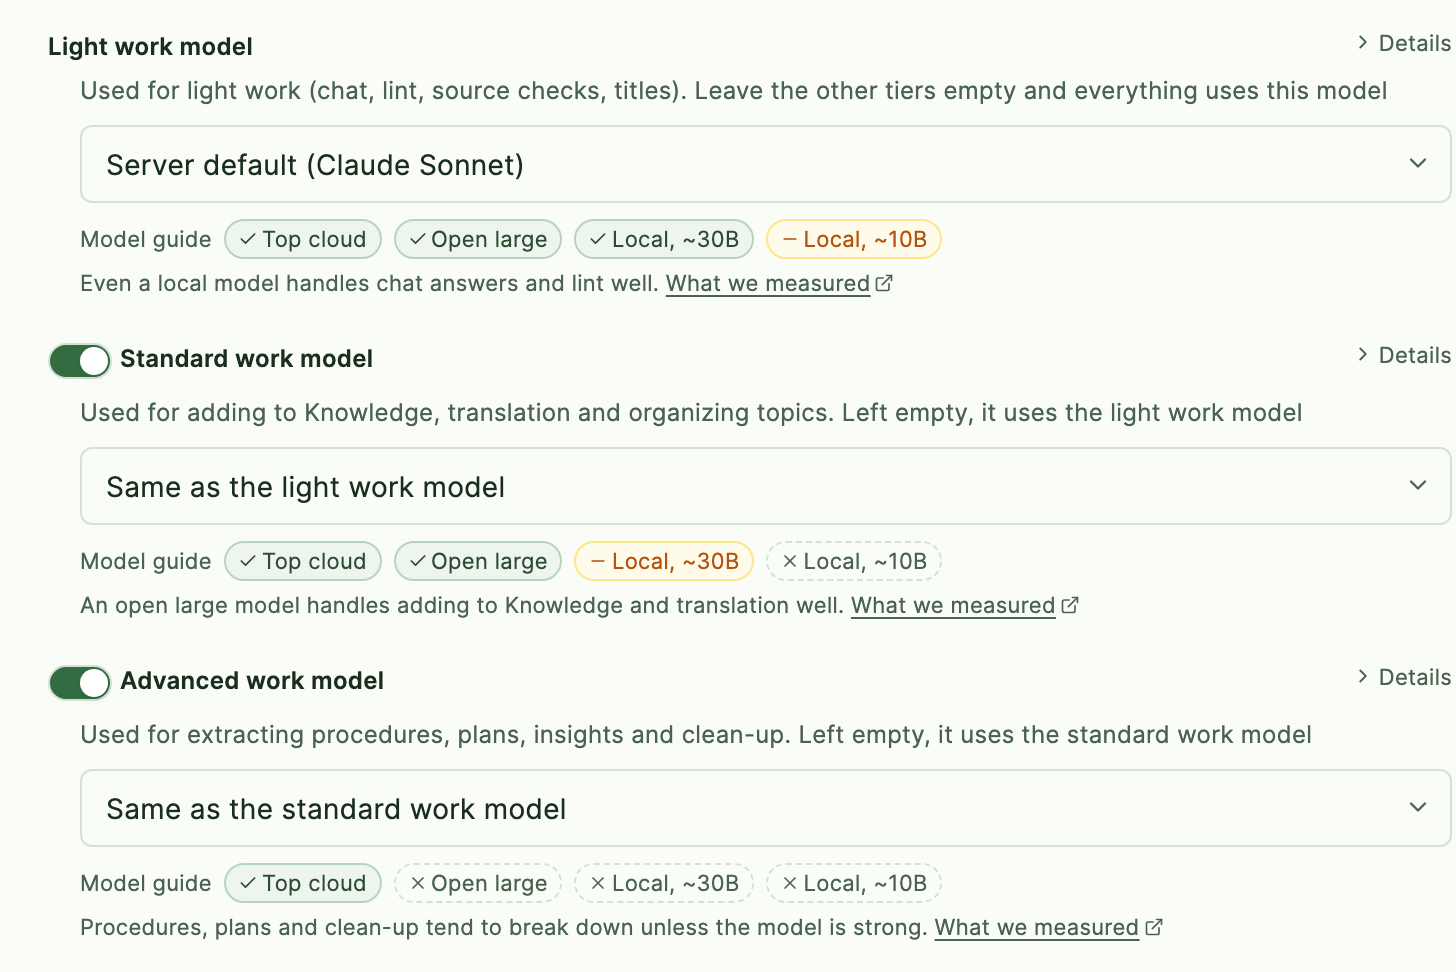
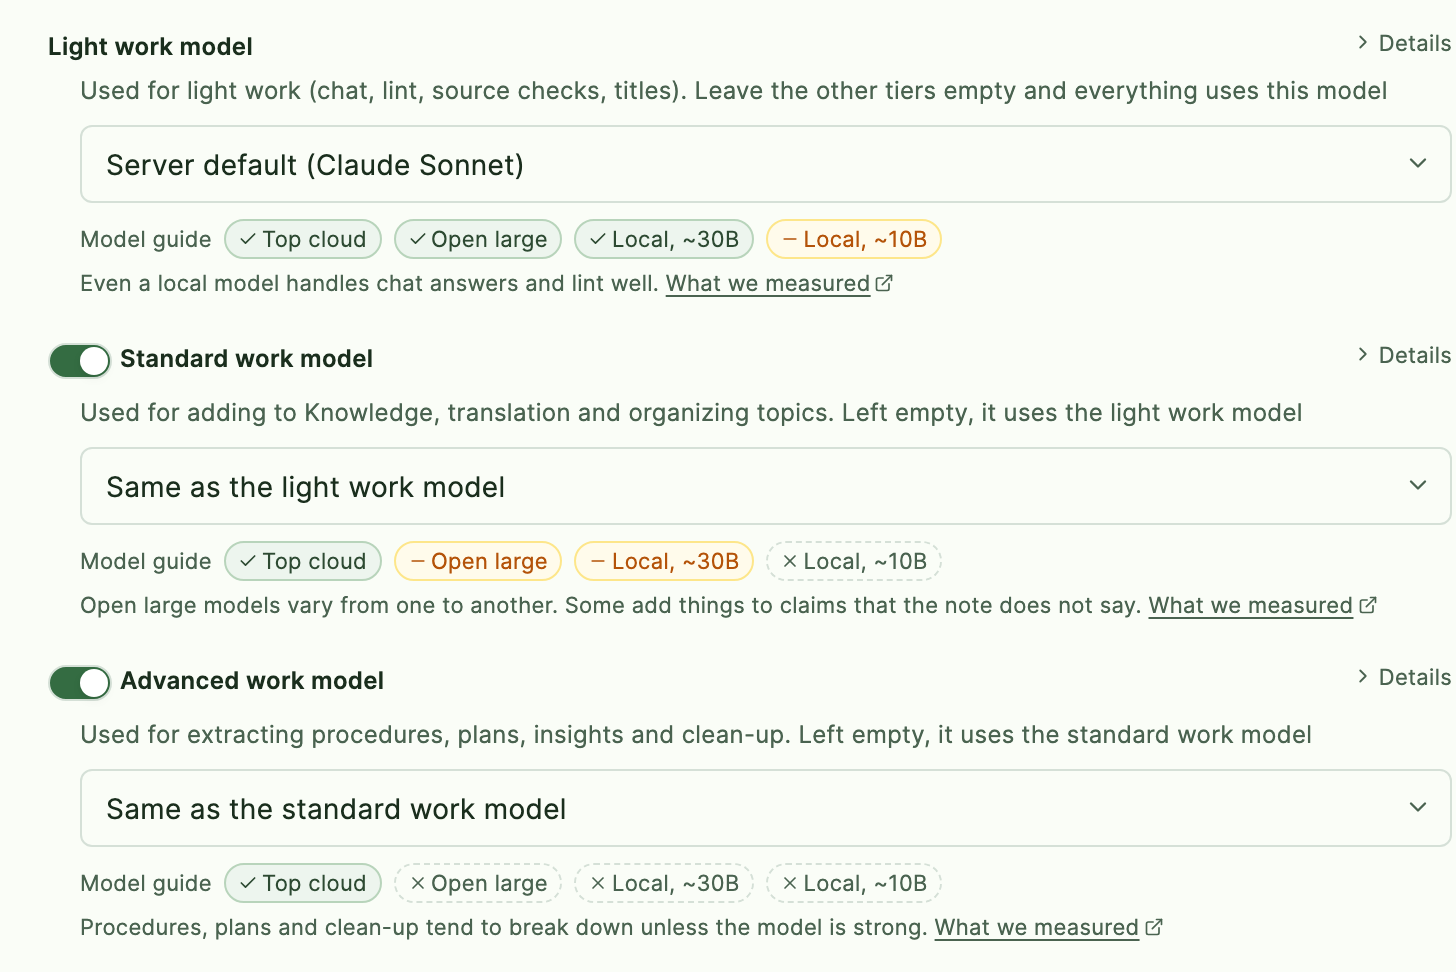
fix(settings): show open large models as conditional for the standard tier
Claim making on 20 notes showed a wide spread inside the class
(faithful passes 17, 11 and 9 of 20), so the model guide no longer
says a good fit. Note text, screenshot and the measurement pages follow.

Changed region(s): [[0.0618, 0.5556, 0.9581, 0.6481]]

diff --git a/src/features/settings/model-fit.ts b/src/features/settings/model-fit.ts
@@ -27,7 +27,10 @@ export const MODEL_FIT: Record<ModelSlot, Record<ModelClass, FitLevel>> = {
   default: { frontier: "good", openLarge: "good", local30b: "good", local10b: "partial" },
   // 標準の処理（ナレッジ化・翻訳・トピックの振り分けと改訂）。オープンな大型はナレッジ化 4/5・翻訳 3/4・
   // トピック 5/8。30B 級はナレッジ化 3/5・トピック 4/8 で 1 件 1〜3 分。10B 級はナレッジ化 2/5・翻訳 1/4
-  standard: { frontier: "good", openLarge: "good", local30b: "partial", local10b: "poor" },
+  // 2026-11-12 に知見づくりを 20 本で測り直し（manual/evaluations/claim-scope.md）、オープンな大型を条件つきに下げた。
+  // 区分の中の差が大きい: 忠実の合格は gemma-4-31B-it が 17/20、Kimi-K2.7-Code が 11/20、gpt-oss-120b が 9/20
+  // （上位のクラウドの gpt-5.6-luna は 20/20）。後の 2 つはノートに無いことを足す知見が多い
+  standard: { frontier: "good", openLarge: "partial", local30b: "partial", local10b: "poor" },
   // 精密な処理（論文からの手順・名寄せ・計画づくりと根拠照合・洞察の抽出・清書）。オープンな大型は
   // 手順のつながり F1 0.31・計画 0/2・洞察 0/4・清書 0/3。30B 級も計画 0/2・清書 0/3。10B 級は時間切れが多い
   precise: { frontier: "good", openLarge: "poor", local30b: "poor", local10b: "poor" },

diff --git a/src/i18n/ja.ts b/src/i18n/ja.ts
@@ -974,7 +974,7 @@ export const ja: Record<string, string> = {
   "settings.insightTest.sectionTitle": "洞察のテスト",
   "settings.insightTest.sectionSummary": "洞察は高度な処理のモデル（{name}）で動きます。同梱の知見で、そのモデルを試せます",
   "settings.insightTest.sectionHelp": "洞察の発見は、モデルの割り当ての「高度な処理のモデル」を使います。別のモデルで試したいときは、そこで選び直してください。テストの入力も結果も保存しません。",
-  "settings.modelFit.note.standard": "ナレッジ化と翻訳は、オープンな大型モデルでも足ります。",
+  "settings.modelFit.note.standard": "オープンな大型モデルは、モデルによって差があります。ノートに無いことが知見に混ざることがあります。",
   "settings.modelFit.note.precise": "手順の抽出・計画・清書は、強いモデルでないと崩れやすくなります。",
   "meeting.aiModelSameAsPreciseNamed": "高度な処理のモデルと同じ（{name}）",
   "meeting.aiModelSameAsPrecise": "高度な処理のモデルと同じ",

diff --git a/src/i18n/en.ts b/src/i18n/en.ts
@@ -974,7 +974,7 @@ export const en: Record<string, string> = {
   "settings.insightTest.sectionTitle": "Insight test",
   "settings.insightTest.sectionSummary": "Insights run on the advanced work model ({name}). Try that model on the bundled claims",
   "settings.insightTest.sectionHelp": "Insight discovery uses the advanced work model under Model assignment. To try a different model, choose it there. The test input and results are not saved.",
-  "settings.modelFit.note.standard": "An open large model handles adding to Knowledge and translation well.",
+  "settings.modelFit.note.standard": "Open large models vary from one to another. Some add things to claims that the note does not say.",
   "settings.modelFit.note.precise": "Procedures, plans and clean-up tend to break down unless the model is strong.",
   "meeting.aiModelSameAsPreciseNamed": "Same as the advanced work model ({name})",
   "meeting.aiModelSameAsPrecise": "Same as the advanced work model",

diff --git a/manual/evaluations/index.md b/manual/evaluations/index.md
@@ -24,7 +24,7 @@ Most of these use my own working notes, so the questions and answers themselves 
 
 | Measured | Question | Decision |
 |---|---|---|
-| 2026-11-11 | [Should claims generalize, or stay inside what the note supports?](/evaluations/claim-scope) | Claims go only as far as being split apart and readable without the note. The body gives the point first, then the note's record. With gpt-5.6-luna, outputs passing every criterion went from 4 to 10 of 20 and claims stretching beyond the note from 20% to 3%. With gpt-oss-120b the improvement was small |
+| 2026-11-11 | [Should claims generalize, or stay inside what the note supports?](/evaluations/claim-scope) | Claims go only as far as being split apart and readable without the note. The body gives the point first, then the note's record. With gpt-5.6-luna, outputs passing every criterion went from 4 to 10 of 20 and claims stretching beyond the note from 20% to 3%. With gpt-oss-120b the improvement was small. A follow-up the next day found that the wording of claims does not show up in the quality of insights, and the model guide in Settings lowered open large models to conditional for the Standard tier |
 | 2026-11-11 | [Why the desktop app's window was using 5 GB twenty minutes after launch](/evaluations/search-index-memory) | The full-text index is stored packed into typed arrays. In a replay on the same engine, memory right after the restore went from about 4 GB to about 0.7 GB, and after 200 searches from about 4.6 GB to about 1.4 GB. In the real app with the fix, the web view went from 5.0–5.6 GB to 1.0–2.6 GB from one minute after launch |
 | 2026-11-10 | [Do topics and insights reach the AI's answers?](/evaluations/what-reaches-the-ai) | The search and citation rules stay as they are. A question with a topic's title in it brought topics and one with a claim's title brought claims, and the form of the question made little difference. A target page that arrived was nearly always cited. Found and fixed a gap where packing stopped at a long section (it is now cut and retried, or skipped). The handling of sections that only list source names was measured again and stays as it is. The title list is not shrunk, and for Claude models it is now sent so that it can be read from the cache |
 | 2026-11-10 | [Merging pages by thing: join, or summarize?](/evaluations/merging-pages-by-thing) | Grouping uses no AI: each page's body is joined as a section. In the 27-page group the AI merge kept about 30% of the source marks and 22 of 54 kinds of numbers with units in the same notation |

diff --git a/manual/ja/evaluations/model-tiers-by-feature.md b/manual/ja/evaluations/model-tiers-by-feature.md
@@ -98,4 +98,5 @@
 - 既存の設定は、1 回だけ移し替えます。旧チャットモデルは新しいデフォルトに、旧デフォルトは（チャットと違っていれば）標準に、旧洞察モデルは精密に入ります。チャット・点検・出典照合と、旧デフォルトが受け持っていたナレッジ化・翻訳は、移し替えの前後で同じモデルを使い続けます。洞察モデルを決めていた人は、手順の抽出と計画もそのモデルで動くようになります。世界照合のモデルを別に決めていた人は、世界照合がデフォルトのモデルに変わります。音声ノートの清書と要約は、移し替えで使うモデルが変わる人だけ、元のモデルを清書と要約の欄に入れて保ちます。
 - [設定](/ja/settings)の各段の下に、モデルの目安（上位のクラウド・オープンな大型・ローカル 30B 級・10B 級）を、向く／条件つき／向かないで出すようにしました。
 - 測定で見つかった問題のうち、本当に直す必要があったのは、ローカルのモデルのエラー文だけでした（別の変更で直しました）。
+- その後（2026-11-12）、標準の段の目安で、オープンな大型を「向く」から「条件つき」に下げました。知見づくりを 20 本のノートで測り直すと、この区分の中の差が大きかったためです。忠実の基準に合格した出力は、`gemma-4-31B-it` が 20 本中 17 本、`Kimi-K2.7-Code` が 11 本、`gpt-oss-120b` が 9 本でした（`gpt-5.6-luna` は 20 本）。後の 2 つは、ノートに無いことを足した知見が多く出ました。この記録の 4/5 は 5 本での結果です（[知見の書かせ方を決めた測定](/ja/evaluations/claim-scope)）。
 - その後、チャットの回答に使うモデルを選べる欄を、設定 → AI → チャットに戻しました。この測定で確かめたのはノートから答える回答で、一緒に考える会話の質は測っていないためです。空欄ならこの記録のとおりに動きます。

diff --git a/manual/evaluations/model-tiers-by-feature.md b/manual/evaluations/model-tiers-by-feature.md
@@ -98,4 +98,5 @@ The measurement harness called the server's endpoints directly, without the app'
 - Existing settings are moved over once. The old chat model becomes the new default, the old default becomes Standard (if it differed from chat), and the old insight model becomes Precise. Chat, checks, source checks, and the adding to Knowledge and translation the old default handled keep using the same model before and after the move. If you had set an insight model, procedures and plans now run on it too. If you had set a separate world-grounding model, world grounding now uses the default model. For voice note clean-up and summaries, anyone whose model would change gets the old model written into that field, so it stays the same.
 - Under each tier in [Settings](/settings), a model guide (top cloud, open large, local ~30B, ~10B) shows good fit, conditional or poor fit.
 - Of the problems found, the only one that really needed a fix was the error text from local models (fixed in a separate change).
+- Later (2026-11-12), the guide for the Standard tier lowered open large models from good fit to conditional. Measuring claim making again on 20 notes showed a wide spread inside this class. Outputs that passed the "faithful" criterion were 17 of 20 for `gemma-4-31B-it`, 11 for `Kimi-K2.7-Code` and 9 for `gpt-oss-120b` (20 for `gpt-5.6-luna`). The last two often added things the note does not say. The 4/5 in this record comes from 5 notes ([the measurement that decided how claims are written](/evaluations/claim-scope)).
 - Later, the field for choosing the model used for chat answers came back, in Settings → AI → Chat. This measurement checked answers grounded in your notes; it did not measure the quality of conversations where you think something through together. Left empty, it behaves as this record describes.

diff --git a/manual/ja/evaluations/claim-scope.md b/manual/ja/evaluations/claim-scope.md
@@ -134,6 +134,7 @@
 
 - **AI の返答の JSON の崩れ。** 1 か所崩れると、そのノートの知見が全部捨てられていました。gpt-oss-120b の 0 件は、この崩れが原因でした。機械的な修復を試すようにしました。2 版目の 2 回目では 1 件が救われ、2 件は救えませんでした。
 - **「今回の試作では」のような指し方。** ノート頼みと判定されたので、場面を名指しする 1 文を指示に足しました。翌日に測り、gpt-5.6-luna で小さく効くことを確かめました（[追加の測定](#追加の測定-2026-11-12-足した-1-文と、ほかの-2-つのモデル)）。
+- **設定のモデルの目安。** 標準の段で、オープンな大型を「向く」としていました。追加の測定でこの区分の中の差が大きいと分かったので（忠実の合格は 20 本中 17 本・11 本・9 本）、「条件つき」に下げ、注記を「ノートに無いことが知見に混ざることがあります」に直しました（[目安の元になった測定](/ja/evaluations/model-tiers-by-feature)）。
 
 ## 限界
 

diff --git a/manual/evaluations/claim-scope.md b/manual/evaluations/claim-scope.md
@@ -134,6 +134,7 @@ Rates per insight.
 
 - **Broken JSON in the AI's reply.** When one place in the reply broke, every claim for that note was thrown away. The empty results from gpt-oss-120b came from this. It now tries a mechanical repair. In the second run of the second version, it rescued 1 and failed to rescue 2.
 - **Phrasing like "in this prototype".** Since it was judged to lean on the note, I added one sentence to the instruction that names the situation. I measured it the next day, and it helped a little with gpt-5.6-luna ([follow-up measurement](#follow-up-measurement-2026-11-12-the-added-sentence-and-two-more-models)).
+- **The model guide in Settings.** For the Standard tier it said open large models were a good fit. The follow-up showed a wide spread inside that class ("faithful" passes of 17, 11 and 9 of 20), so the guide now shows conditional, and its note says that some of these models add things the note does not say ([the measurement behind the guide](/evaluations/model-tiers-by-feature)).
 
 ## Limits
 
